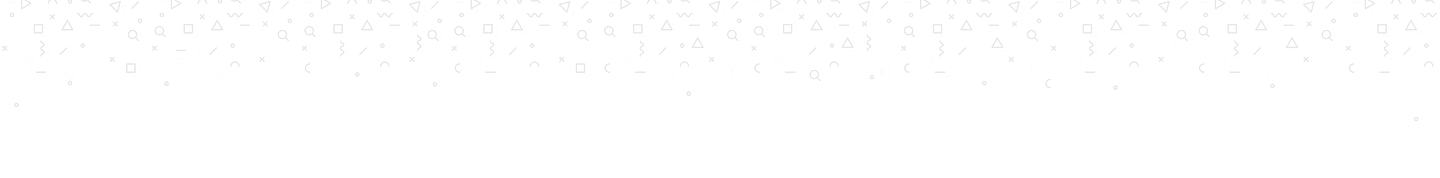
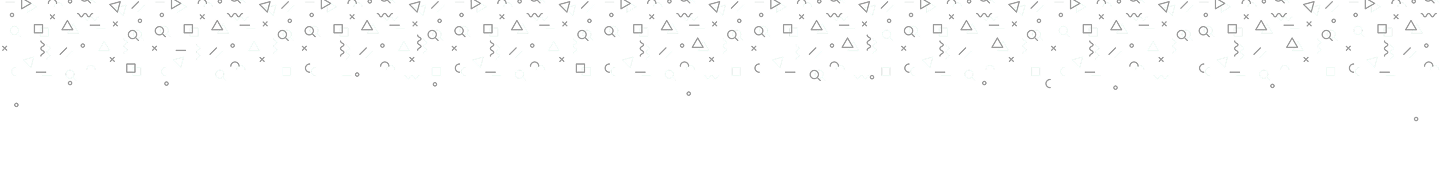
feature section

diff --git a/src/components/Home/Feature.tsx b/src/components/Home/Feature.tsx
@@ -1,0 +1,45 @@
+import Image from "next/image";
+import React from "react";
+import DecorBanner from "@/assets/DecorBanner.png";
+import { BiSearch, BiSolidUserDetail } from "react-icons/bi";
+import FeatureCard from "./FeatureCard";
+import { FaSearchengin, FaUserGraduate } from "react-icons/fa";
+
+export default function Feature() {
+  return (
+    <div className="mb-10">
+      <div className=" relative w-full h-64 flex flex-col items-center content-start justify-center">
+        <Image
+          src={DecorBanner}
+          alt="NavDeco"
+          layout="fill"
+          objectFit="cover"
+        />
+        <div className="absolute bottom-10 w-1/2 flex items-center flex-col">
+          <div className="mt-7 text-3xl text-[#54B9EE] font-bold">
+            OUR MAIN FEATURES
+          </div>
+        </div>
+      </div>
+      <div className="container flex items-center flex-col mb-5">
+        <div className="grid grid-cols-1 sm:grid-cols-2 lg:grid-cols-3 gap-8 px-5">
+          <FeatureCard
+            icon={<FaUserGraduate size={30} color="#54B9EE" />}
+            title="Profile-based Team Matching"
+            description="You can create your detailed profiles that showcase your skills, interests, and course involvement."
+          />
+          <FeatureCard
+            icon={<FaSearchengin  size={30} color="#54B9EE" />}
+            title="Advanced Search and Filtering"
+            description="With powerful search and filter options, you can easily find team members based on your major, subject, skills, or specific requirements."
+          />
+          <FeatureCard
+            icon={<BiSolidUserDetail size={30} color="#54B9EE" />}
+            title="Detail information of Teams & Projects"
+            description="Discover and join teams that match your skills and interests. View detailed project information and team member profiles with ease."
+          />
+        </div>
+      </div>
+    </div>
+  );
+}

diff --git a/src/app/page.tsx b/src/app/page.tsx
@@ -1,12 +1,16 @@
-'use client'
+"use client";
 
+import Feature from "@/components/Home/Feature";
 import Title from "../components/Home/Title";
 
 export default function Home() {
   return (
     <div>
-      <Title title='Find Your Team with Ease!' subtitle="Teamo helps FPT university students connect with peers for projects, assignments, and group work. Simply browse profiles by subject or major, and form your perfect team in no time."/>
-
-    </div> 
+      <Title
+        title="Find Your Team with Ease!"
+        subtitle="Teamo helps FPT university students connect with peers for projects, assignments, and group work. Simply browse profiles by subject or major, and form your perfect team in no time."
+      />
+      <Feature />
+    </div>
   );
 }

diff --git a/src/components/Home/FeatureCard.tsx b/src/components/Home/FeatureCard.tsx
@@ -1,0 +1,23 @@
+interface FeatureCardProps {
+  icon: React.ReactNode;
+  title: string;
+  description: string;
+}
+
+const FeatureCard: React.FC<FeatureCardProps> = ({
+  icon,
+  title,
+  description,
+}) => {
+  return (
+    <div className="flex flex-col items-center border border-[#C5E7FB] bg-white p-12 rounded-lg shadow-lg text-center transition-transform transform hover:scale-105 hover:shadow-xl h-full">
+      <div className="w-16 h-16 bg-white flex items-center justify-center rounded-full mb-4">
+        {icon}
+      </div>
+      <h3 className="text-xl font-semibold mb-4 h-12 items-center">{title}</h3>
+      <p className="text-gray-600 h-40">{description}</p>
+    </div>
+  );
+};
+
+export default FeatureCard;

diff --git a/src/components/Home/Title.tsx b/src/components/Home/Title.tsx
@@ -10,7 +10,7 @@ type Props = {
 
 export default function Title({ title, subtitle }: Props) {
   return (
-    <div className="mb-5 relative w-full h-screen flex flex-col items-center content-start justify-center px-6">
+    <div className=" relative w-full h-screen flex flex-col items-center content-start justify-center px-6">
       <Image
         src={BgLanding}
         alt="Background"
